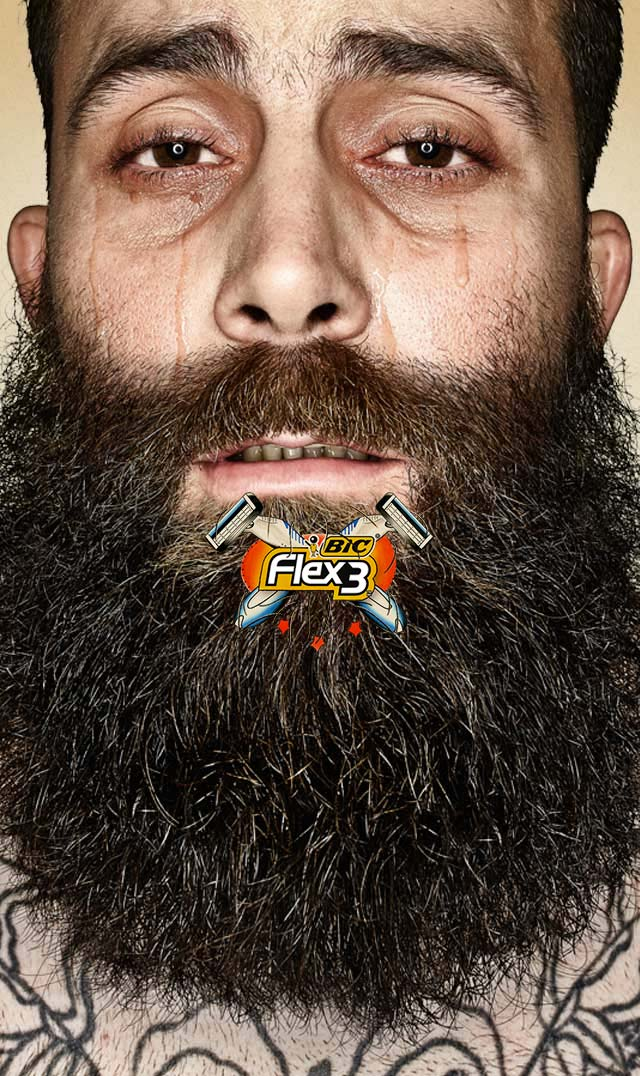
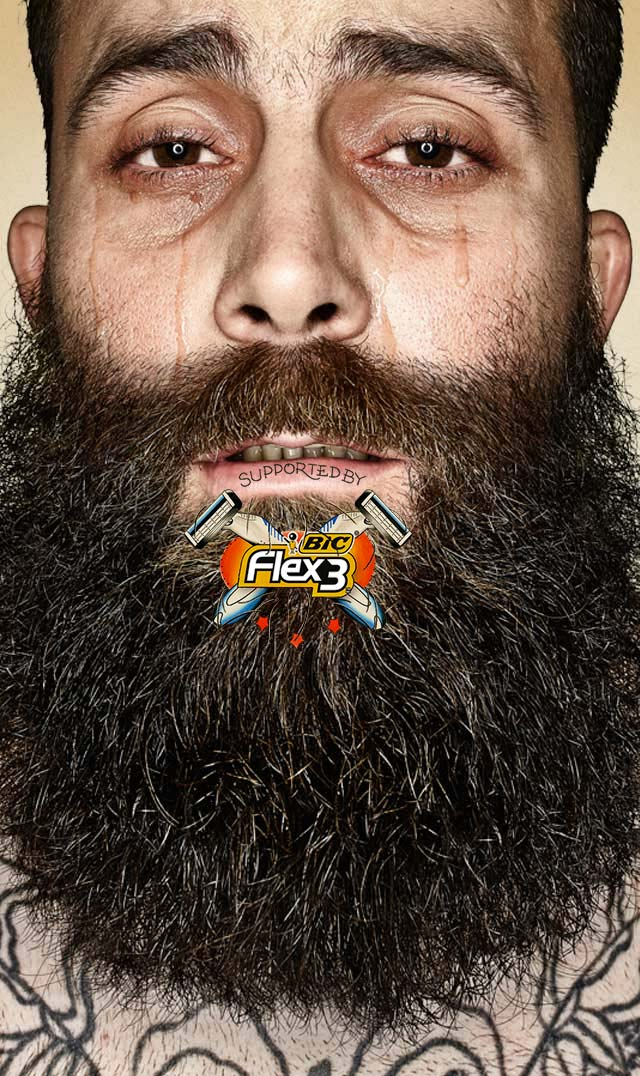
update of mobile beard guy

Changed region(s): [[0.2812, 0.4294, 0.6875, 0.6134]]

diff --git a/assets/dist/css/main.css b/assets/dist/css/main.css
@@ -1,1 +1,1 @@
-header,header nav{overflow:hidden;border-bottom:3px solid #000}footer,section{filter:progid:DXImageTransform.Microsoft.gradient( startColorstr='#00d99359', endColorstr='#bfd99359', GradientType=1 )}header,header nav,section{overflow:hidden}.clear,.clearfix:after,section#news .container .join-the-movement .social-container:after,section#news .container .news-box-cont:after{clear:both}.hidden{display:none}.clearfix:after,.clearfix:before{content:" ";display:table}section#news:after,section:before{content:' '}@font-face{font-family:Parliment-Outline;src:url(../../fonts/parliament-outline-webfont.eot);src:url(../../fonts/parliament-outline-webfont.eot?#iefix) format("embedded-opentype"),url(../../fonts/parliament-outline-webfont.woff2) format("woff2"),url(../../fonts/parliament-outline-webfont.woff) format("woff"),url(../../fonts/Parliament-Outline.otf) format("opentype")}@font-face{font-family:Parliment;src:url(../../fonts/parliament-regular-webfont.eot);src:url(../../fonts/parliament-regular-webfont.eot?#iefix) format("embedded-opentype"),url(../../fonts/parliament-regular-webfont.woff2) format("woff2"),url(../../fonts/parliament-regular-webfont.woff) format("woff"),url(../../fonts/Parliament-Regular.otf) format("opentype")}.modal .modal-dialog .modal-content{background:url(../img/paper_bg.jpg) #e8dec7;border-radius:0}h2,h3,h4,h5,h6{font-family:Parliment,serif;color:#0a0a09}a:focus{color:#0a0a09}input,p,select{font-family:proxima-nova,sans-serif;color:#0a0a09}header nav ul li a,section#save-a-mate form button{font-family:Parliment,serif}body{background:url(../../img/paper_bg.jpg) #e8dec7}footer{background:-moz-radial-gradient(center,ellipse cover,rgba(221,180,109,0) 0,rgba(221,180,109,0) 53%,#ddb46d 100%);background:-webkit-gradient(radial,center center,0,center center,100%,color-stop(0,rgba(221,180,109,0)),color-stop(53%,rgba(221,180,109,0)),color-stop(100%,#ddb46d));background:-webkit-radial-gradient(center,ellipse cover,rgba(221,180,109,0) 0,rgba(221,180,109,0) 53%,#ddb46d 100%);background:-o-radial-gradient(center,ellipse cover,rgba(221,180,109,0) 0,rgba(221,180,109,0) 53%,#ddb46d 100%);background:-ms-radial-gradient(center,ellipse cover,rgba(221,180,109,0) 0,rgba(221,180,109,0) 53%,#ddb46d 100%);background:radial-gradient(ellipse at center,rgba(221,180,109,0) 0,rgba(221,180,109,0) 53%,#ddb46d 100%);padding:100px 0 200px}footer img{margin:0 auto;width:250px;display:block}.shareaholic-canvas{margin-top:18px}.back-to-top-cont{position:fixed;left:50%;bottom:0;z-index:10;opacity:0;-webkit-transition:1.5s all;-moz-transition:1.5s all;transition:1.5s all}@media only screen and (max-width:1024px){.back-to-top-cont{display:none}}.back-to-top-cont .back-to-top-button{display:block;background-image:url(../../img/back_to_top_razor.png);background-repeat:no-repeat;height:188px;width:210px;left:-105px;position:absolute;bottom:10px}header{background:url(../../img/big_beard_bg_02.jpg) top center no-repeat;height:1080px;position:relative}@media only screen and (max-width:768px){header{position:static;background-image:url(../../img/guy-with-beard_mobile.jpg);-webkit-background-size:contain;-moz-background-size:contain;-o-background-size:contain;background-size:contain}}header h1{background:url(../../img/main_logo.png) top center no-repeat;margin:160px 0 0;text-indent:-9999px;height:227px;opacity:0;-webkit-transition:1.5s opacity .3s margin;-moz-transition:1.5s opacity,.3s margin;transition:1.5s opacity,.3s margin}@media only screen and (max-width:768px){header h1{display:none}}header .beard-nav-mobile{position:relative;margin-top:95%;overflow:hidden}@media only screen and (min-width:769px){header .beard-nav-mobile{display:none}}header .beard-nav-mobile>img{width:100px;display:block;position:absolute}header .beard-nav-mobile a{background-size:contain;background-repeat:no-repeat;display:table-cell;width:20vw}header .beard-nav-mobile a.menu-1{background-image:url(../../img/beard_nav_mobile_save.png);height:132px}header .beard-nav-mobile a.menu-2{background-image:url(../../img/beard_nav_mobile_signs.png);height:141px;background-position:0 50px}header .beard-nav-mobile a.menu-3{background-image:url(../../img/beard_nav_mobile_effects.png);height:260px;background-position:0 80px}header .beard-nav-mobile a.menu-4{background-image:url(../../img/beard_nav_mobile_host.png);height:148px;background-position:0 50px}header .beard-nav-mobile a.menu-5{background-image:url(../../img/beard_nav_mobile_news.png);height:130px}header .beard-nav{position:relative;left:50%}@media only screen and (max-width:768px){header .beard-nav{display:none}}header .beard-nav>img{width:282px;height:234px;display:block;position:absolute;left:-134px;top:28px}header .beard-nav a.animation{position:absolute;display:block;text-indent:-9999px}header .beard-nav a.animation.menu-1{left:-490px;top:-30px}header .beard-nav a.animation.menu-2{left:-370px;top:200px}header .beard-nav a.animation.menu-3{left:-105px;top:290px}header .beard-nav a.animation.menu-4{left:200px;top:200px}header .beard-nav a.animation.menu-5{left:330px;top:0}header nav{position:fixed;top:0;height:64px;background:rgba(0,0,0,.7);width:100%;z-index:3;-webkit-transition:.5s all;-moz-transition:.5s all;transition:.5s all}header nav ul{padding-left:0}header nav ul li{display:inline}header nav ul li a{text-transform:uppercase;color:#828282;font-size:22px;line-height:64px;padding:0 30px}header nav ul li a.social-nav-link{padding:0 5px}header nav ul li a:focus{color:#828282}header nav ul li a.open-menu{display:none}header nav ul li a.logo{padding-right:80px;opacity:0;-webkit-transition:1.5s opacity;-moz-transition:1.5s opacity;transition:1.5s opacity}@media only screen and (max-width:768px){header nav ul li a.logo{padding:0;display:block;opacity:1;margin-left:-65px}header nav ul li a.logo img{display:block;margin:auto}}header nav ul li a:hover{text-decoration:none;color:#fff}@media (max-width:1500px){header nav ul li a{font-size:15px;padding:0 10px}header nav ul li a.logo{padding:0 60px 0 10px}}@media (max-width:1200px){header nav ul li a{padding:0 5px;font-size:15px}header nav ul li a.logo{padding:0 5px}}@media (max-width:1050px){header nav ul li a{font-size:12px}}@media only screen and (max-width:768px){header nav{top:0;position:fixed;z-index:10;border-bottom:none;background:rgba(0,0,0,.7)}header nav ul{padding:0}header nav ul li{display:block;border-bottom:3px solid #000;text-align:center}header nav ul li:last-child{border-bottom:none}header nav ul li a{color:#fff;padding-left:30px;font-size:18px}header nav ul li a.open-menu{padding:0 10px;display:block;float:right;top:0;position:absolute;right:10px;font-size:32px;cursor:pointer}header nav ul li a.social-nav-link{padding:0 15px}}section{background:-moz-radial-gradient(center,ellipse cover,rgba(221,180,109,0) 0,rgba(221,180,109,0) 53%,#ddb46d 100%);background:-webkit-gradient(radial,center center,0,center center,100%,color-stop(0,rgba(221,180,109,0)),color-stop(53%,rgba(221,180,109,0)),color-stop(100%,#ddb46d));background:-webkit-radial-gradient(center,ellipse cover,rgba(221,180,109,0) 0,rgba(221,180,109,0) 53%,#ddb46d 100%);background:-o-radial-gradient(center,ellipse cover,rgba(221,180,109,0) 0,rgba(221,180,109,0) 53%,#ddb46d 100%);background:-ms-radial-gradient(center,ellipse cover,rgba(221,180,109,0) 0,rgba(221,180,109,0) 53%,#ddb46d 100%);background:radial-gradient(ellipse at center,rgba(221,180,109,0) 0,rgba(221,180,109,0) 53%,#ddb46d 100%)}section:before{height:87px;width:100%;display:block;background:url(../../img/rope_border_middle.png) center center no-repeat;padding:90px 0 60px}@media only screen and (min-width:1025px){section .container:before{background-image:url(../../img/border-flowers.png);background-repeat:no-repeat;content:' ';height:157px;display:block;position:absolute;width:100%;left:0;background-position:center 0}}section h2{text-indent:-10000px;transition:.5s all}section .animation,section h2{-webkit-transition:.5s all;-moz-transition:.5s all}@media only screen and (max-width:480px){section h2 .animation div{background-size:contain;width:100%!important;margin:auto!important}}section .animation{-webkit-transform:translateZ(0);-moz-transform:translateZ(0);-ms-transform:translateZ(0);-o-transform:translateZ(0);transform:translateZ(0);-webkit-backface-visibility:hidden;-moz-backface-visibility:hidden;-ms-backface-visibility:hidden;backface-visibility:hidden;-webkit-perspective:1000;-moz-perspective:1000;-ms-perspective:1000;perspective:1000;transition:.5s all}section .animation>div{margin:0 auto}section#global-effects h2 .animation{margin:-100px 0}@media (max-width:1440px){section#global-effects h2 .animation{margin:-100px 0 -60px}}@media only screen and (max-width:1024px){section#global-effects h3{font-size:42px}}@media only screen and (max-width:480px){section#global-effects:before{padding:0}section#global-effects h2 .animation{margin:0}section#global-effects h3{font-size:30px}}section#global-effects .barber-graph{margin:110px auto 0;background:url(../../img/barber_graph.png) no-repeat;width:519px;height:536px;position:relative;background-size:contain;max-width:100%}@media (max-width:1440px){section#global-effects .barber-graph{width:400px;height:400px;margin:60px auto 0}}section#global-effects .barber-graph .animation{position:absolute;left:220px}@media (max-width:480px){section#global-effects .barber-graph{margin:0 auto;height:100vw}section#global-effects .barber-graph .animation{left:150px}}section#global-effects .pants-graph{margin:60px auto 0;background:url(../../img/pants_graph.png) no-repeat;width:539px;height:424px;background-size:contain;max-width:100%}@media (max-width:1440px){section#global-effects .pants-graph{margin-top:80px}}@media (max-width:480px){section#global-effects .pants-graph{margin:0 auto;height:300px}}section#global-effects .graph-only{margin:40px auto 0;background:url(../../img/graph_only.png) no-repeat;width:517px;height:428px;position:relative;background-size:contain;max-width:100%}section#global-effects .graph-only .animation{position:absolute;left:10px}@media only screen and (min-width:1025px){section#signs-and-symptoms .container:before{background-position:center -157px;height:161px;margin-top:-50px}}section#signs-and-symptoms h2 .animation{margin:-200px 0}section#signs-and-symptoms .row .animation{min-height:500px}section#signs-and-symptoms .row .animation.old-school-animation{transform:scale(.85)}section#signs-and-symptoms .row .col-md-6{height:750px}@media (max-width:1440px){section#signs-and-symptoms h2 .animation{margin:-200px 0 -140px}section#signs-and-symptoms .row .animation{min-height:350px}section#signs-and-symptoms .row .col-md-6{height:520px}}section#signs-and-symptoms .row h3{font-size:48px}@media only screen and (max-width:1024px){section#signs-and-symptoms .row h3{font-size:42px}}@media only screen and (max-width:480px){section#signs-and-symptoms h2 .animation{margin:0}section#signs-and-symptoms .row .animation{min-height:initial}section#signs-and-symptoms .row .col-md-6{height:auto}section#signs-and-symptoms .row h3{font-size:30px}}@media only screen and (min-width:1025px){section#hipstervention .container:before{background-position:center -321px;height:205px;margin-top:60px}}section#hipstervention h2{margin:-80px 0}@media only screen and (max-width:480px){section#hipstervention h2 .animation{margin:0}}section#hipstervention .ht-heading{margin:80px auto 20px;display:block}@media only screen and (max-width:480px){section#hipstervention .ht-heading{margin-top:0}}section#hipstervention .ht-heading.ht-heading-01{margin-top:170px}@media only screen and (max-width:480px){section#hipstervention .ht-heading.ht-heading-01{margin-top:100px}}section#hipstervention .ht-heading.ht-heading-03{margin-top:190px}@media only screen and (max-width:480px){section#hipstervention .ht-heading.ht-heading-03{margin-top:40px}}section#hipstervention .row .col-md-6{padding-bottom:0}section#hipstervention .row .col-md-6 .bic-razor-host{max-width:100%;display:block;margin:240px auto 0;width:420px}@media only screen and (max-width:1024px){section#hipstervention .row .col-md-6 .ht-heading{width:100%;margin-left:2%}}@media only screen and (max-width:768px){section#hipstervention .row .col-md-6 .bic-razor-host{margin-top:40px;margin-bottom:60px}section#hipstervention .row .col-md-6 .ht-heading{width:80%;margin-left:10%}}section#hipstervention .animation.bear-trap div{margin-bottom:-150px}@media only screen and (max-width:768px){section#hipstervention .animation.bear-trap div{margin-bottom:0}}section#hipstervention .animation.tears-glass div{margin-bottom:-100px}@media (max-width:1440px) and (min-width:768px){section#hipstervention .animation.bear-trap div,section#hipstervention .animation.tears-glass div{margin-top:80px}}@media (max-width:767px){section#hipstervention .animation.tears-glass div{margin-top:20px;margin-bottom:-100px}}@media only screen and (max-width:768px){section#hipstervention .animation.tears-glass div{margin-bottom:0}}section#hipstervention .animation.beard-slap{margin-left:130px;margin-bottom:-130px}@media (max-width:1440px){section#hipstervention .animation.beard-slap{margin-left:80px}}@media (max-width:767px){section#hipstervention .animation.beard-slap{margin-bottom:-100px}}@media (max-width:480px){section#hipstervention .animation.beard-slap{margin-bottom:0}}section#hipstervention p{margin-left:65px}@media only screen and (max-width:768px){section#hipstervention p{margin-left:0}}section#hipstervention .shame-row .shame-right{float:right}@media only screen and (max-width:767px){section#hipstervention .shame-row .shame-right{float:none}}section#hipstervention .shame-row .shame-left{float:left}@media only screen and (max-width:767px){section#hipstervention .shame-row .shame-left{float:none}}section#hipstervention .download-link{display:block;background:url(../../img/download-link.png) no-repeat;width:251px;height:97px;text-indent:-9999px;margin:0 auto}section#hipstervention .star-border{background:url(../../img/star-border.png) 60px 0 no-repeat;width:226px;height:25px;margin:10px auto 0}@media only screen and (max-width:768px){section#hipstervention .star-border{background-position:center}}section#save-a-mate:before{height:82px;background:url(../../img/rope_border_top.png) center center no-repeat;margin-top:40px}@media only screen and (max-width:480px){section#save-a-mate:before{padding:0;height:25px;background-position:center top}}section#save-a-mate .container:before{margin:0}section#save-a-mate .row{padding-bottom:80px}@media only screen and (max-width:1024px){section#save-a-mate .row{padding-bottom:0}}section#save-a-mate .row .col-md-2 h3,section#save-a-mate .row .col-md-3 h3{font-size:50px;line-height:70px}section#save-a-mate .row .col-md-12 p{max-width:700px;margin-left:auto;margin-right:auto;font-size:20px}section#save-a-mate .row.free-razor-lead{margin-top:60px;padding-bottom:20px}section#save-a-mate .row.free-razor-lead .col-md-6 img{max-width:671px;width:100%;margin:10px auto;display:block}section#save-a-mate .row.free-razor-lead .col-md-6 h5{text-align:center;font-size:64px;margin:0;line-height:1}section#save-a-mate .row.free-razor-lead .col-md-6 h4{text-align:center;font-size:150px;margin:0;line-height:120px}section#save-a-mate .row.free-razor-lead .col-md-6 h4 sup{top:-1.3em;margin-right:-.5em;font-size:.4em}section#save-a-mate .row.free-razor-lead .col-md-6 p{margin-top:20px}@media (max-width:480px){section#save-a-mate form{padding:0 20px}}section#save-a-mate form .row{padding-bottom:0}section#save-a-mate form input,section#save-a-mate form select{border-radius:0;border:2px solid #000;font-size:28px;height:56px;text-indent:10px;margin-bottom:10px}@media only screen and (max-width:768px){section#save-a-mate form input,section#save-a-mate form select{font-size:14px}}section#save-a-mate form button{max-width:400px;margin:40px auto;background:#e74e2c;color:#fff;border-radius:0;font-size:38px;line-height:76px;text-decoration:none;border:none;box-shadow:0 5px 10px rgba(0,0,0,.3)}@media only screen and (max-width:768px){section#save-a-mate form button{font-size:28px}}section#save-a-mate form .small-text{text-transform:uppercase;font-size:18px;text-align:center;padding-bottom:80px}section#save-a-mate form .small-text sup{font-size:18px;top:-.1em}section#save-a-mate .video-section-cont h3{font-size:59px;text-align:center}@media only screen and (max-width:768px){section#save-a-mate .video-section-cont h3{font-size:38px}}section#save-a-mate .video-section-cont .video-player-cont{position:relative}section#save-a-mate .video-section-cont .video-player-cont img{margin:0 auto;max-width:100%;display:block;width:1260px}section#save-a-mate .video-section-cont .video-player-cont .video-player-center{left:50%;width:1240px;position:absolute}section#save-a-mate .video-section-cont .video-player-cont .video-player-center .video-player{left:-50%;position:absolute;background:url(../../img/video_rope_border.png);width:1240px;height:704px}section#save-a-mate .video-section-cont .video-player-cont .video-player-center .video-player .video-inner{background-color:#000;background-image:url(../../img/button-video-play.png);background-repeat:no-repeat;background-position:center center;width:1030px;height:600px;position:absolute;z-index:-1;left:110px;top:49px}section#save-a-mate .share-button{display:block;height:75px;width:75px;line-height:75px;text-align:center;margin:20px auto}section#save-a-mate .share-button i{height:75px;width:75px;line-height:75px;text-align:center;color:#fff}section#save-a-mate .share-button.share-fb{background:#354f87}section#save-a-mate .share-button.share-twit{background:#019cd0}section#save-a-mate .share-button.share-google{background:#c5422f}section#save-a-mate .share-button.share-email{background:#c7c5b3}section#save-a-mate .col-md-12 p{max-width:900px;margin:0 auto 10px;padding:20px 0}section#save-a-mate .star-border{background:url(../../img/star-border.png) no-repeat;width:166px;height:25px;margin:10px auto 0}section#save-a-mate .download-link{display:block;background:url(../../img/download-link.png) no-repeat;width:251px;height:97px;text-indent:-9999px}@media only screen and (max-width:1024px){section#save-a-mate .download-link{margin:0 auto}}@media only screen and (min-width:1025px){section#news .container:before{background-position:center -157px;height:161px;margin-top:70px}section#news .container:after{background-image:url(../../img/border-flowers.png);background-repeat:no-repeat;content:' ';height:202px;display:block;position:absolute;width:100%;left:0;background-position:center -524px;margin-top:-140px}}section#news:after{height:82px;width:100%;display:block;margin-top:26px;background:url(../../img/rope_border_bottom.png) center center no-repeat;margin-bottom:40px;z-index:-1}section#news .container .join-the-movement .social-container:after,section#news .container .join-the-movement .social-container:before,section#news .container .news-box-cont:after,section#news .container .news-box-cont:before{content:" ";display:table}section#news h2{margin-top:-90px}section#news .container .news-box-cont{padding-bottom:140px;margin:0 auto}@media only screen and (max-width:1024px){section#news .container .news-box-cont{max-width:640px;padding-bottom:40px}}section#news .container .news-box-cont .news-box{background:rgba(100,0,0,.1);width:360px;height:360px;float:left;padding:60px 30px 60px 60px;margin:10px}section#news .container .news-box-cont .news-box.news-insta{padding:0}section#news .container .news-box-cont .news-box img{width:100%}section#news .container .news-box-cont .news-box p{font-size:20px}section#news .container .news-box-cont .news-box p strong{font-weight:600}section#news .container .news-box-cont .news-box.video-link{position:relative;padding:0;cursor:pointer}section#news .container .news-box-cont .news-box.video-link div.play-button{background:url(../../img/button-video-play.png) center center no-repeat;position:absolute;width:135px;height:132px;top:114px;left:112.5px}section#news .container .news-box-cont .news-box.video-link img{margin:0}@media only screen and (max-width:1024px){section#news .container .news-box-cont .news-box{width:300px;height:300px}section#news .container .news-box-cont .news-box p{font-size:14px}section#news .container .news-box-cont .news-box.video-link div.play-button{width:135px;height:132px;top:84px;left:82.5px}}@media only screen and (max-width:768px){section#news .container .news-box-cont .news-box{width:48%;margin:1%;background:0 0}}@media only screen and (min-width:1025px){section#news .container .join-the-movement .social-absolute{position:absolute;width:100%;padding:0;margin:-70px 0 0;float:none;left:0;z-index:2}}section#news .container .join-the-movement .social-container{width:350px;margin:0 auto}@media only screen and (max-width:480px){section#news .container .news-box-cont{max-width:320px}section#news .container .join-the-movement .social-container{width:250px}}section#news .container .join-the-movement .social-button{display:block;height:60px;width:60px;line-height:60px;text-align:center;margin:20px 5px;float:left}section#news .container .join-the-movement .social-button i{height:60px;width:60px;line-height:60px;text-align:center;color:#fff}@media only screen and (max-width:480px){section#news .container .join-the-movement .social-button{width:40px;height:40px;line-height:40px}section#news .container .join-the-movement .social-button i{font-size:1.5em;width:40px;height:40px;line-height:40px}}section#news .container .join-the-movement .social-button.social-fb{background:#354f87}section#news .container .join-the-movement .social-button.social-twit{background:#019cd0}section#news .container .join-the-movement .social-button.social-insta{background:#bab39d}section#news .container .join-the-movement .social-button.social-youtube{background:#e15955}section#news .container .join-the-movement .social-button.social-tumblr{background:#48738f}section#news .container .join-the-movement .col-md-12{padding-bottom:30px}section#news .container .join-the-movement .input-group{max-width:750px;margin:0 auto}section#news .container .join-the-movement .input-group input{border-radius:0;border:2px solid #000;font-size:28px;height:56px}section#news .container .join-the-movement .input-group .input-group-btn{padding-left:20px}section#news .container .join-the-movement .input-group .input-group-btn button{font-size:28px;border:2px solid #000;color:#fff;font-weight:600;text-transform:uppercase;border-radius:0;background:#cf3e0f;padding:6px 30px}section .container>.row .col-md-4,section .container>.row>.col-md-12,section .container>.row>.col-md-6{padding-bottom:60px}section .container>.row h3{text-align:center}section .container>.row h3 small{color:#0a0a09}section .container>.row>.col-md-12 h3,section .container>.row>.col-md-6 h3{font-size:54px}section .container>.row .col-md-4>img{width:300px;margin:0 auto;display:block}section .container>.row .col-md-4 h3{font-size:52px}section .container>.row p{font-size:17px;text-align:center}
+header,header nav{overflow:hidden;border-bottom:3px solid #000}footer,section{filter:progid:DXImageTransform.Microsoft.gradient( startColorstr='#00d99359', endColorstr='#bfd99359', GradientType=1 )}header,header nav,section{overflow:hidden}.clear,.clearfix:after,section#news .container .join-the-movement .social-container:after,section#news .container .news-box-cont:after{clear:both}.hidden{display:none}.clearfix:after,.clearfix:before{content:" ";display:table}section#news:after,section:before{content:' '}@font-face{font-family:Parliment-Outline;src:url(../../fonts/parliament-outline-webfont.eot);src:url(../../fonts/parliament-outline-webfont.eot?#iefix) format("embedded-opentype"),url(../../fonts/parliament-outline-webfont.woff2) format("woff2"),url(../../fonts/parliament-outline-webfont.woff) format("woff"),url(../../fonts/Parliament-Outline.otf) format("opentype")}@font-face{font-family:Parliment;src:url(../../fonts/parliament-regular-webfont.eot);src:url(../../fonts/parliament-regular-webfont.eot?#iefix) format("embedded-opentype"),url(../../fonts/parliament-regular-webfont.woff2) format("woff2"),url(../../fonts/parliament-regular-webfont.woff) format("woff"),url(../../fonts/Parliament-Regular.otf) format("opentype")}.modal .modal-dialog .modal-content{background:url(../img/paper_bg.jpg) #e8dec7;border-radius:0}h2,h3,h4,h5,h6{font-family:Parliment,serif;color:#0a0a09}a:focus{color:#0a0a09}input,p,select{font-family:proxima-nova,sans-serif;color:#0a0a09}header nav ul li a,section#save-a-mate form button{font-family:Parliment,serif}body{background:url(../../img/paper_bg.jpg) #e8dec7}footer{background:-moz-radial-gradient(center,ellipse cover,rgba(221,180,109,0) 0,rgba(221,180,109,0) 53%,#ddb46d 100%);background:-webkit-gradient(radial,center center,0,center center,100%,color-stop(0,rgba(221,180,109,0)),color-stop(53%,rgba(221,180,109,0)),color-stop(100%,#ddb46d));background:-webkit-radial-gradient(center,ellipse cover,rgba(221,180,109,0) 0,rgba(221,180,109,0) 53%,#ddb46d 100%);background:-o-radial-gradient(center,ellipse cover,rgba(221,180,109,0) 0,rgba(221,180,109,0) 53%,#ddb46d 100%);background:-ms-radial-gradient(center,ellipse cover,rgba(221,180,109,0) 0,rgba(221,180,109,0) 53%,#ddb46d 100%);background:radial-gradient(ellipse at center,rgba(221,180,109,0) 0,rgba(221,180,109,0) 53%,#ddb46d 100%);padding:100px 0 200px}footer img{margin:0 auto;width:250px;display:block}.shareaholic-canvas{margin-top:18px}.back-to-top-cont{position:fixed;left:50%;bottom:0;z-index:10;opacity:0;-webkit-transition:1.5s all;-moz-transition:1.5s all;transition:1.5s all}@media only screen and (max-width:1024px){.back-to-top-cont{display:none}}.back-to-top-cont .back-to-top-button{display:block;background-image:url(../../img/back_to_top_razor.png);background-repeat:no-repeat;height:188px;width:210px;left:-105px;position:absolute;bottom:10px}header{background:url(../../img/big_beard_bg_02.jpg) top center no-repeat;height:1080px;position:relative}@media only screen and (max-width:768px){header{position:static;background-image:url(../../img/guy-with-beard_mobile.jpg);-webkit-background-size:contain;-moz-background-size:contain;-o-background-size:contain;background-size:contain}}header h1{background:url(../../img/main_logo.png) top center no-repeat;margin:160px 0 0;text-indent:-9999px;height:227px;opacity:0;-webkit-transition:1.5s opacity .3s margin;-moz-transition:1.5s opacity,.3s margin;transition:1.5s opacity,.3s margin}@media only screen and (max-width:768px){header h1{display:none}}header .beard-nav-mobile{position:relative;margin-top:95%;overflow:hidden}@media only screen and (min-width:769px){header .beard-nav-mobile{display:none}}header .beard-nav-mobile>img{width:100px;display:block;position:absolute}header .beard-nav-mobile a{background-size:contain;background-repeat:no-repeat;display:table-cell;width:20vw}header .beard-nav-mobile a.menu-1{background-image:url(../../img/beard_nav_mobile_save.png);height:132px}header .beard-nav-mobile a.menu-2{background-image:url(../../img/beard_nav_mobile_signs.png);height:141px;background-position:0 50px}header .beard-nav-mobile a.menu-3{background-image:url(../../img/beard_nav_mobile_effects.png);height:260px;background-position:0 80px}header .beard-nav-mobile a.menu-4{background-image:url(../../img/beard_nav_mobile_host.png);height:148px;background-position:0 50px}header .beard-nav-mobile a.menu-5{background-image:url(../../img/beard_nav_mobile_news.png);height:130px}header .beard-nav{position:relative;left:50%}@media only screen and (max-width:768px){header .beard-nav{display:none}}header .beard-nav>img{width:282px;height:234px;display:block;position:absolute;left:-134px;top:28px}header .beard-nav a.animation{position:absolute;display:block;text-indent:-9999px}header .beard-nav a.animation.menu-1{left:-490px;top:-30px}header .beard-nav a.animation.menu-2{left:-370px;top:200px}header .beard-nav a.animation.menu-3{left:-105px;top:290px}header .beard-nav a.animation.menu-4{left:200px;top:200px}header .beard-nav a.animation.menu-5{left:330px;top:0}header nav{position:fixed;top:0;height:64px;background:rgba(0,0,0,.7);width:100%;z-index:3;-webkit-transition:.5s all;-moz-transition:.5s all;transition:.5s all}header nav ul{padding-left:0}header nav ul li{display:inline}header nav ul li a{text-transform:uppercase;color:#828282;font-size:22px;line-height:64px;padding:0 30px}header nav ul li a.social-nav-link{padding:0 5px}header nav ul li a:focus{color:#828282}header nav ul li a.open-menu{display:none}header nav ul li a.logo{padding-right:80px;opacity:0;-webkit-transition:1.5s opacity;-moz-transition:1.5s opacity;transition:1.5s opacity}@media only screen and (max-width:768px){header nav ul li a.logo{padding:0;display:block;opacity:1;margin-left:-65px}header nav ul li a.logo img{display:block;margin:auto}}header nav ul li a:hover{text-decoration:none;color:#fff}@media (max-width:1500px){header nav ul li a{font-size:15px;padding:0 10px}header nav ul li a.logo{padding:0 60px 0 10px}}@media (max-width:1200px){header nav ul li a{padding:0 5px;font-size:15px}header nav ul li a.logo{padding:0 5px}}@media (max-width:1050px){header nav ul li a{font-size:12px}}@media only screen and (max-width:768px){header nav{top:0;position:fixed;z-index:10;border-bottom:none;background:rgba(0,0,0,.7)}header nav ul{padding:0}header nav ul li{display:block;border-bottom:3px solid #000;text-align:center}header nav ul li:last-child{border-bottom:none}header nav ul li a{color:#fff;padding-left:30px;font-size:18px}header nav ul li a.open-menu{padding:0 10px;display:block;float:right;top:0;position:absolute;right:10px;font-size:32px;cursor:pointer}header nav ul li a.social-nav-link{padding:0 15px}}section{background:-moz-radial-gradient(center,ellipse cover,rgba(221,180,109,0) 0,rgba(221,180,109,0) 53%,#ddb46d 100%);background:-webkit-gradient(radial,center center,0,center center,100%,color-stop(0,rgba(221,180,109,0)),color-stop(53%,rgba(221,180,109,0)),color-stop(100%,#ddb46d));background:-webkit-radial-gradient(center,ellipse cover,rgba(221,180,109,0) 0,rgba(221,180,109,0) 53%,#ddb46d 100%);background:-o-radial-gradient(center,ellipse cover,rgba(221,180,109,0) 0,rgba(221,180,109,0) 53%,#ddb46d 100%);background:-ms-radial-gradient(center,ellipse cover,rgba(221,180,109,0) 0,rgba(221,180,109,0) 53%,#ddb46d 100%);background:radial-gradient(ellipse at center,rgba(221,180,109,0) 0,rgba(221,180,109,0) 53%,#ddb46d 100%)}section:before{height:87px;width:100%;display:block;background:url(../../img/rope_border_middle.png) center center no-repeat;padding:90px 0 60px}@media only screen and (min-width:1025px){section .container:before{background-image:url(../../img/border-flowers.png);background-repeat:no-repeat;content:' ';height:157px;display:block;position:absolute;width:100%;left:0;background-position:center 0}}section h2{text-indent:-10000px;transition:.5s all}section .animation,section h2{-webkit-transition:.5s all;-moz-transition:.5s all}@media only screen and (max-width:480px){section h2 .animation div{background-size:contain;width:100%!important;margin:auto!important}}section .animation{-webkit-transform:translateZ(0);-moz-transform:translateZ(0);-ms-transform:translateZ(0);-o-transform:translateZ(0);transform:translateZ(0);-webkit-backface-visibility:hidden;-moz-backface-visibility:hidden;-ms-backface-visibility:hidden;backface-visibility:hidden;-webkit-perspective:1000;-moz-perspective:1000;-ms-perspective:1000;perspective:1000;transition:.5s all}section .animation>div{margin:0 auto}section#global-effects h2 .animation{margin:-100px 0}@media (max-width:1440px){section#global-effects h2 .animation{margin:-100px 0 -60px}}@media only screen and (max-width:1024px){section#global-effects h3{font-size:42px}}@media only screen and (max-width:480px){section#global-effects:before{padding:0}section#global-effects h2 .animation{margin:0}section#global-effects h3{font-size:30px}}section#global-effects .barber-graph{margin:110px auto 0;background:url(../../img/barber_graph.png) no-repeat;width:519px;height:536px;position:relative;background-size:contain;max-width:100%}@media (max-width:1440px){section#global-effects .barber-graph{width:400px;height:400px;margin:60px auto 0}}section#global-effects .barber-graph .animation{position:absolute;left:220px}@media (max-width:480px){section#global-effects .barber-graph{margin:0 auto;height:100vw}section#global-effects .barber-graph .animation{left:150px}}section#global-effects .pants-graph{margin:60px auto 0;background:url(../../img/pants_graph.png) no-repeat;width:539px;height:424px;background-size:contain;max-width:100%}@media (max-width:1440px){section#global-effects .pants-graph{margin-top:80px}}@media (max-width:480px){section#global-effects .pants-graph{margin:0 auto;height:300px}}section#global-effects .graph-only{margin:40px auto 0;background:url(../../img/graph_only.png) no-repeat;width:517px;height:428px;position:relative;background-size:contain;max-width:100%}section#global-effects .graph-only .animation{position:absolute;left:10px}@media only screen and (min-width:1025px){section#signs-and-symptoms .container:before{background-position:center -157px;height:161px;margin-top:-50px}}section#signs-and-symptoms h2 .animation{margin:-200px 0}section#signs-and-symptoms .row .animation{min-height:500px}section#signs-and-symptoms .row .animation.old-school-animation{transform:scale(.85)}section#signs-and-symptoms .row .col-md-6{height:750px}@media (max-width:1440px){section#signs-and-symptoms h2 .animation{margin:-200px 0 -140px}section#signs-and-symptoms .row .animation{min-height:350px}section#signs-and-symptoms .row .col-md-6{height:520px}}section#signs-and-symptoms .row h3{font-size:48px}@media only screen and (max-width:1024px){section#signs-and-symptoms .row h3{font-size:42px}}@media only screen and (max-width:480px){section#signs-and-symptoms h2 .animation{margin:0}section#signs-and-symptoms .row .animation{min-height:initial}section#signs-and-symptoms .row .col-md-6{height:auto}section#signs-and-symptoms .row h3{font-size:30px}}@media only screen and (min-width:1025px){section#hipstervention .container:before{background-position:center -321px;height:205px;margin-top:60px}}section#hipstervention h2{margin:-80px 0}@media only screen and (max-width:480px){section#hipstervention h2 .animation{margin:0}}section#hipstervention .ht-heading{margin:80px auto 20px;display:block}@media only screen and (max-width:480px){section#hipstervention .ht-heading{margin-top:0}}section#hipstervention .ht-heading.ht-heading-01{margin-top:170px}@media only screen and (max-width:480px){section#hipstervention .ht-heading.ht-heading-01{margin-top:100px}}section#hipstervention .ht-heading.ht-heading-03{margin-top:190px}@media only screen and (max-width:480px){section#hipstervention .ht-heading.ht-heading-03{margin-top:40px}}section#hipstervention .row .col-md-6{padding-bottom:0}section#hipstervention .row .col-md-6 .bic-razor-host{max-width:100%;display:block;margin:240px auto 0;width:420px}@media only screen and (max-width:1024px){section#hipstervention .row .col-md-6 .ht-heading{width:100%;margin-left:2%}}@media only screen and (max-width:768px){section#hipstervention .row .col-md-6 .bic-razor-host{margin-top:0;margin-bottom:60px;max-width:80%}section#hipstervention .row .col-md-6 .ht-heading{width:80%;margin-left:10%}}section#hipstervention .animation.bear-trap div{margin-bottom:-150px}@media only screen and (max-width:768px){section#hipstervention .animation.bear-trap div{margin-bottom:0}}section#hipstervention .animation.tears-glass div{margin-bottom:-100px}@media (max-width:1440px) and (min-width:768px){section#hipstervention .animation.bear-trap div,section#hipstervention .animation.tears-glass div{margin-top:80px}}@media (max-width:767px){section#hipstervention .animation.tears-glass div{margin-top:20px;margin-bottom:-100px}}@media only screen and (max-width:768px){section#hipstervention .animation.tears-glass div{margin-bottom:0}}section#hipstervention .animation.beard-slap{margin-left:130px;margin-bottom:-130px}@media (max-width:1440px){section#hipstervention .animation.beard-slap{margin-left:80px}}@media (max-width:767px){section#hipstervention .animation.beard-slap{margin-bottom:-100px}}@media (max-width:480px){section#hipstervention .animation.beard-slap{margin-bottom:0}}section#hipstervention p{margin-left:65px}@media only screen and (max-width:768px){section#hipstervention p{margin-left:0}}section#hipstervention .shame-row .shame-right{float:right}@media only screen and (max-width:767px){section#hipstervention .shame-row .shame-right{float:none}}section#hipstervention .shame-row .shame-left{float:left}@media only screen and (max-width:767px){section#hipstervention .shame-row .shame-left{float:none}}section#hipstervention .download-link{display:block;background:url(../../img/download-link.png) no-repeat;width:251px;height:97px;text-indent:-9999px;margin:0 auto}section#hipstervention .star-border{background:url(../../img/star-border.png) 60px 0 no-repeat;width:226px;height:25px;margin:10px auto 0}@media only screen and (max-width:768px){section#hipstervention .star-border{background-position:center}}section#save-a-mate:before{height:82px;background:url(../../img/rope_border_top.png) center center no-repeat;margin-top:40px}@media only screen and (max-width:480px){section#save-a-mate:before{padding:0;height:25px;background-position:center top}}section#save-a-mate .container:before{margin:0}section#save-a-mate .row{padding-bottom:80px}@media only screen and (max-width:1024px){section#save-a-mate .row{padding-bottom:0}}section#save-a-mate .row .col-md-2 h3,section#save-a-mate .row .col-md-3 h3{font-size:50px;line-height:70px}section#save-a-mate .row .col-md-12 p{max-width:700px;margin-left:auto;margin-right:auto;font-size:20px}section#save-a-mate .row.free-razor-lead{margin-top:60px;padding-bottom:20px}section#save-a-mate .row.free-razor-lead .col-md-6 img{max-width:671px;width:100%;margin:10px auto;display:block}section#save-a-mate .row.free-razor-lead .col-md-6 h5{text-align:center;font-size:64px;margin:0;line-height:1}section#save-a-mate .row.free-razor-lead .col-md-6 h4{text-align:center;font-size:150px;margin:0;line-height:120px}section#save-a-mate .row.free-razor-lead .col-md-6 h4 sup{top:-1.3em;margin-right:-.5em;font-size:.4em}section#save-a-mate .row.free-razor-lead .col-md-6 p{margin-top:20px}@media (max-width:480px){section#save-a-mate form{padding:0 20px}}section#save-a-mate form .row{padding-bottom:0}section#save-a-mate form input,section#save-a-mate form select{border-radius:0;border:2px solid #000;font-size:28px;height:56px;text-indent:10px;margin-bottom:10px}@media only screen and (max-width:768px){section#save-a-mate form input,section#save-a-mate form select{font-size:14px}}section#save-a-mate form button{max-width:400px;margin:40px auto;background:#e74e2c;color:#fff;border-radius:0;font-size:38px;line-height:76px;text-decoration:none;border:none;box-shadow:0 5px 10px rgba(0,0,0,.3)}@media only screen and (max-width:768px){section#save-a-mate form button{font-size:28px}}section#save-a-mate form .small-text{text-transform:uppercase;font-size:18px;text-align:center;padding-bottom:80px}section#save-a-mate form .small-text sup{font-size:18px;top:-.1em}section#save-a-mate .video-section-cont h3{font-size:59px;text-align:center}@media only screen and (max-width:768px){section#save-a-mate .video-section-cont h3{font-size:38px}}section#save-a-mate .video-section-cont .video-player-cont{position:relative}section#save-a-mate .video-section-cont .video-player-cont img{margin:0 auto;max-width:100%;display:block;width:1260px}section#save-a-mate .video-section-cont .video-player-cont .video-player-center{left:50%;width:1240px;position:absolute}section#save-a-mate .video-section-cont .video-player-cont .video-player-center .video-player{left:-50%;position:absolute;background:url(../../img/video_rope_border.png);width:1240px;height:704px}section#save-a-mate .video-section-cont .video-player-cont .video-player-center .video-player .video-inner{background-color:#000;background-image:url(../../img/button-video-play.png);background-repeat:no-repeat;background-position:center center;width:1030px;height:600px;position:absolute;z-index:-1;left:110px;top:49px}section#save-a-mate .share-button{display:block;height:75px;width:75px;line-height:75px;text-align:center;margin:20px auto}section#save-a-mate .share-button i{height:75px;width:75px;line-height:75px;text-align:center;color:#fff}section#save-a-mate .share-button.share-fb{background:#354f87}section#save-a-mate .share-button.share-twit{background:#019cd0}section#save-a-mate .share-button.share-google{background:#c5422f}section#save-a-mate .share-button.share-email{background:#c7c5b3}section#save-a-mate .col-md-12 p{max-width:900px;margin:0 auto 10px;padding:20px 0}section#save-a-mate .star-border{background:url(../../img/star-border.png) no-repeat;width:166px;height:25px;margin:10px auto 0}section#save-a-mate .download-link{display:block;background:url(../../img/download-link.png) no-repeat;width:251px;height:97px;text-indent:-9999px}@media only screen and (max-width:1024px){section#save-a-mate .download-link{margin:0 auto}}@media only screen and (min-width:1025px){section#news .container:before{background-position:center -157px;height:161px;margin-top:70px}section#news .container:after{background-image:url(../../img/border-flowers.png);background-repeat:no-repeat;content:' ';height:202px;display:block;position:absolute;width:100%;left:0;background-position:center -524px;margin-top:-140px}}section#news:after{height:82px;width:100%;display:block;margin-top:26px;background:url(../../img/rope_border_bottom.png) center center no-repeat;margin-bottom:40px;z-index:-1}section#news .container .join-the-movement .social-container:after,section#news .container .join-the-movement .social-container:before,section#news .container .news-box-cont:after,section#news .container .news-box-cont:before{content:" ";display:table}section#news h2{margin-top:-90px}section#news .container .news-box-cont{padding-bottom:140px;margin:0 auto}@media only screen and (max-width:1024px){section#news .container .news-box-cont{max-width:640px;padding-bottom:40px}}section#news .container .news-box-cont .news-box{background:rgba(100,0,0,.1);width:360px;height:360px;float:left;padding:60px 30px 60px 60px;margin:10px}section#news .container .news-box-cont .news-box.news-insta{padding:0}section#news .container .news-box-cont .news-box img{width:100%}section#news .container .news-box-cont .news-box p{font-size:20px}section#news .container .news-box-cont .news-box p strong{font-weight:600}section#news .container .news-box-cont .news-box.video-link{position:relative;padding:0;cursor:pointer}section#news .container .news-box-cont .news-box.video-link div.play-button{background:url(../../img/button-video-play.png) center center no-repeat;position:absolute;width:135px;height:132px;top:114px;left:112.5px}section#news .container .news-box-cont .news-box.video-link img{margin:0}@media only screen and (max-width:1024px){section#news .container .news-box-cont .news-box{width:300px;height:300px}section#news .container .news-box-cont .news-box p{font-size:14px}section#news .container .news-box-cont .news-box.video-link div.play-button{width:135px;height:132px;top:84px;left:82.5px}}@media only screen and (max-width:768px){section#news .container .news-box-cont .news-box{width:48%;margin:1%;background:0 0}}@media only screen and (min-width:1025px){section#news .container .join-the-movement .social-absolute{position:absolute;width:100%;padding:0;margin:-70px 0 0;float:none;left:0;z-index:2}}section#news .container .join-the-movement .social-container{width:350px;margin:0 auto}@media only screen and (max-width:480px){section#news .container .news-box-cont{max-width:320px}section#news .container .join-the-movement .social-container{width:250px}}section#news .container .join-the-movement .social-button{display:block;height:60px;width:60px;line-height:60px;text-align:center;margin:20px 5px;float:left}section#news .container .join-the-movement .social-button i{height:60px;width:60px;line-height:60px;text-align:center;color:#fff}@media only screen and (max-width:480px){section#news .container .join-the-movement .social-button{width:40px;height:40px;line-height:40px}section#news .container .join-the-movement .social-button i{font-size:1.5em;width:40px;height:40px;line-height:40px}}section#news .container .join-the-movement .social-button.social-fb{background:#354f87}section#news .container .join-the-movement .social-button.social-twit{background:#019cd0}section#news .container .join-the-movement .social-button.social-insta{background:#bab39d}section#news .container .join-the-movement .social-button.social-youtube{background:#e15955}section#news .container .join-the-movement .social-button.social-tumblr{background:#48738f}section#news .container .join-the-movement .col-md-12{padding-bottom:30px}section#news .container .join-the-movement .input-group{max-width:750px;margin:0 auto}section#news .container .join-the-movement .input-group input{border-radius:0;border:2px solid #000;font-size:28px;height:56px}section#news .container .join-the-movement .input-group .input-group-btn{padding-left:20px}section#news .container .join-the-movement .input-group .input-group-btn button{font-size:28px;border:2px solid #000;color:#fff;font-weight:600;text-transform:uppercase;border-radius:0;background:#cf3e0f;padding:6px 30px}section .container>.row .col-md-4,section .container>.row>.col-md-12,section .container>.row>.col-md-6{padding-bottom:60px}section .container>.row h3{text-align:center}section .container>.row h3 small{color:#0a0a09}section .container>.row>.col-md-12 h3,section .container>.row>.col-md-6 h3{font-size:54px}section .container>.row .col-md-4>img{width:300px;margin:0 auto;display:block}section .container>.row .col-md-4 h3{font-size:52px}section .container>.row p{font-size:17px;text-align:center}

diff --git a/index.html b/index.html
@@ -198,7 +198,7 @@ content="http://thehipstervention.com/assets/img/facebook-share-image.jpg" />
 							</a>
 						</div>
 						<div class="col-xs-3">
-							<a href="https://twitter.com/intent/tweet?text=TheHipstervention.com%20%E2%80%93%20Save%20a%20mate%20before%20its%20too%20late.%20%E2%80%93%20http%3A%2F%2Fthehipstervention.com" target="_blank" class="share-button share-twit">
+							<a href="https://twitter.com/intent/tweet?text=TheHipstervention.com%20%E2%80%93%20Shave%20the%20beard.%20Save%20the%20world.%20http%3A%2F%2Fthehipstervention.com%2F" target="_blank" class="share-button share-twit">
 								<i class="fa fa-twitter fa-2x"></i>
 							</a>
 						</div>

diff --git a/assets/src/scss/main.scss b/assets/src/scss/main.scss
@@ -666,8 +666,9 @@ section {
           margin-top: 240px;
 
           @include tablet-portrait-and-below {
-            margin-top: 40px;
+            margin-top: 0px;
             margin-bottom: 60px;
+            max-width: 80%;
           }
         }
         @include tablet-landscape-and-below {
